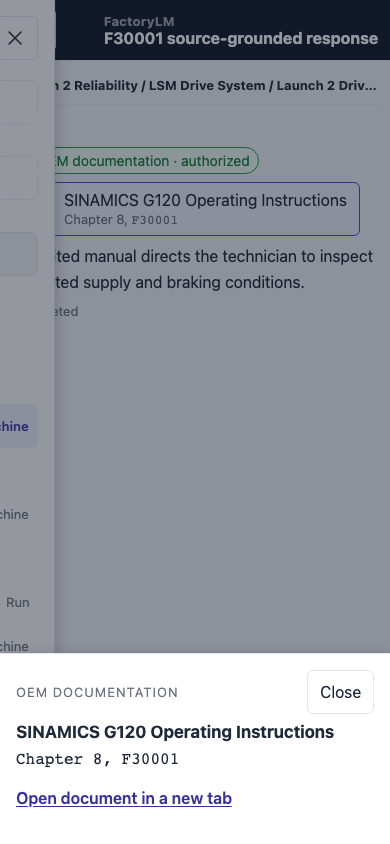
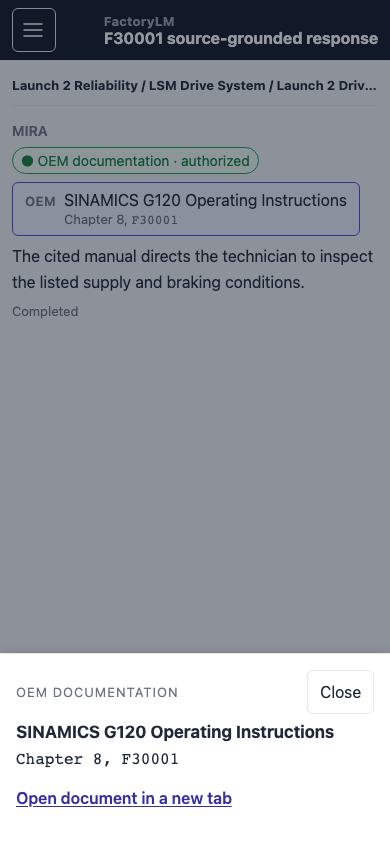
test(ui): wait for source-viewer backdrop transition before capture

diff --git a/apps/factorylm-ui-lab/e2e/back-closes-layers.browser.ts b/apps/factorylm-ui-lab/e2e/back-closes-layers.browser.ts
@@ -59,7 +59,11 @@ try {
       const label = `${thread} ${width}x${height}`;
       try {
         await sourcePage.goto(`${base}/v3?document=1&surface=hub&thread=${thread}`);
-        if (width < 768) await sourcePage.getByRole("button", { name: "Close navigation" }).click();
+        if (width < 768) {
+          await sourcePage.getByRole("button", { name: "Close navigation" }).click();
+          await sourcePage.waitForFunction(() =>
+            document.querySelector<HTMLElement>(".fl-shell__sidebar")!.getBoundingClientRect().right <= 0);
+        }
         await sourcePage.locator('button[data-part-type="source"]').first().click();
         const viewer = sourcePage.getByRole("dialog", { name: "Source viewer" });
         const link = viewer.getByRole("link", { name: "Open document in a new tab", exact: true });
